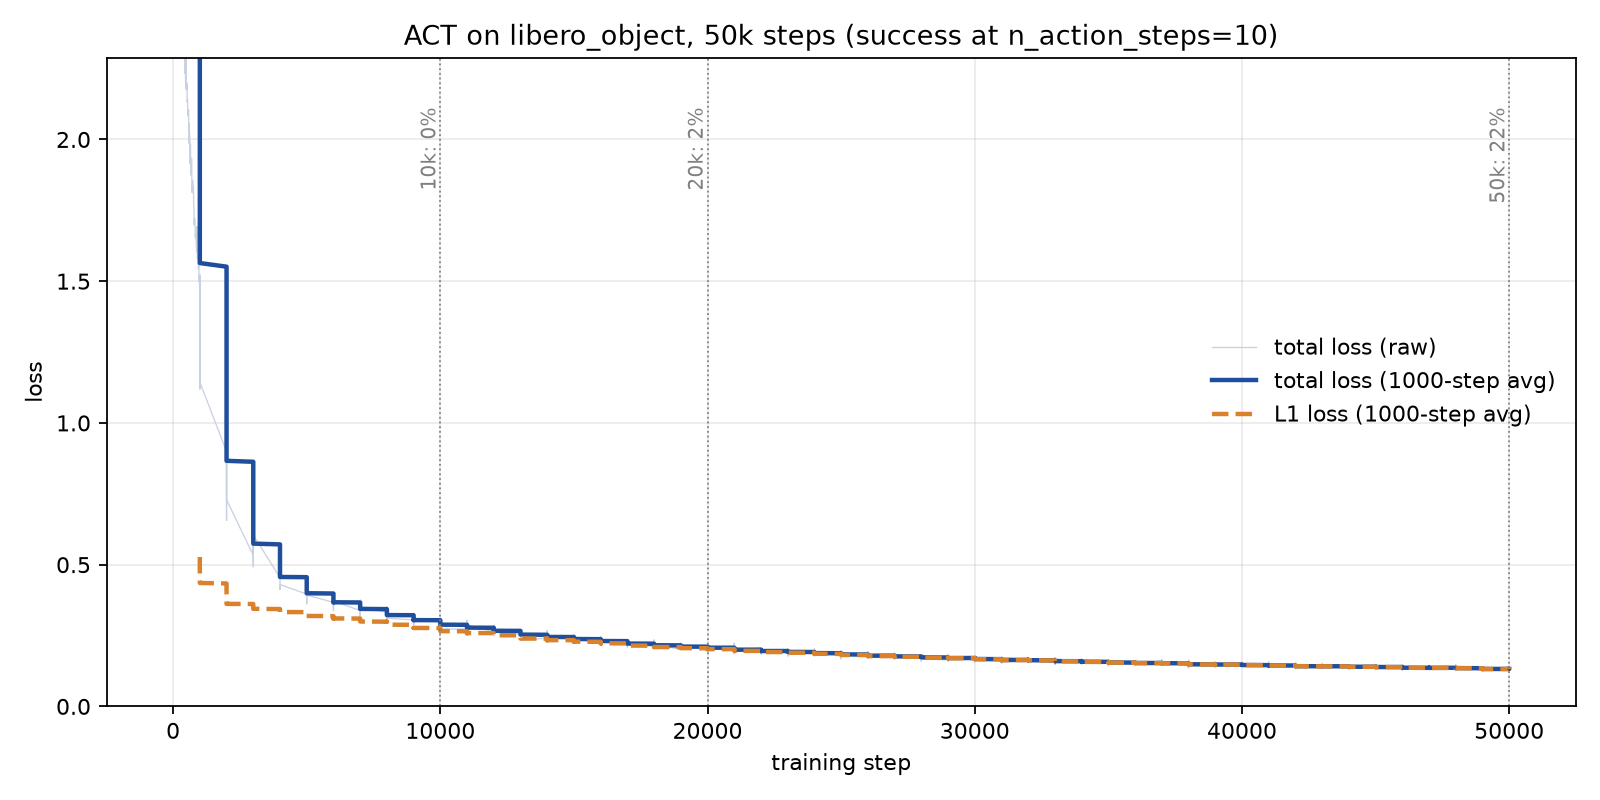
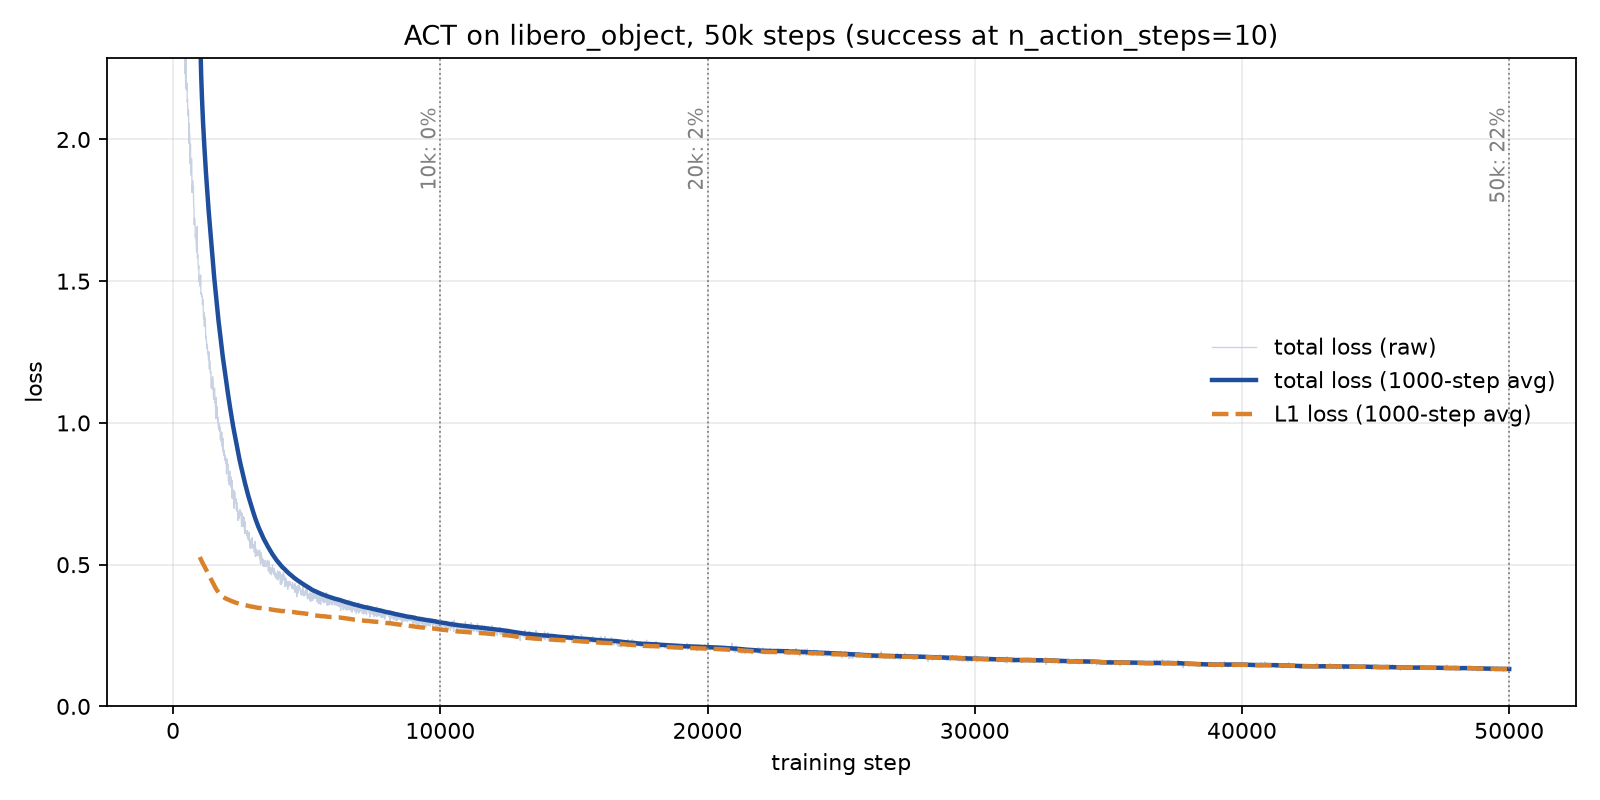
Describe figures, add eval commands for both stages, fix loss-curve x axis

diff --git a/scripts/plot_act50k.py b/scripts/plot_act50k.py
@@ -10,6 +10,8 @@ for s, loss, l1 in re.findall(r"step:(\S+)\s.*?\bloss:([\d.]+).*?\bl1_loss:([\d.
     s = float(s[:-1]) * 1000 if s.endswith("K") else float(s)
     S.append(s); L.append(float(loss)); L1.append(float(l1))
 S, L, L1 = map(np.array, (S, L, L1))
+if len(S) == 5000: S = np.arange(1, 5001) * 10.0
+else: print('WARNING: expected 5000 log points, got', len(S))
 o = np.argsort(S); S, L, L1 = S[o], L[o], L1[o]
 w = 100  # log_freq=10 -> 100 points = 1000 steps
 sm = lambda a: np.convolve(a, np.ones(w) / w, mode="valid")

diff --git a/scripts/plot_replay20.py b/scripts/plot_replay20.py
@@ -11,6 +11,8 @@ for s, l in re.findall(r"step:(\S+)\s.*?\bloss:([\d.]+)", txt):
     s = float(s[:-1]) * 1000 if s.endswith("K") else float(s)
     steps.append(s); losses.append(float(l))
 steps, losses = np.array(steps), np.array(losses)
+if len(steps) == 1000: steps = np.arange(1, 1001) * 10.0
+else: print('WARNING: expected 1000 log points, got', len(steps))
 w = 20  # log_freq=10, so 20 points = 200 steps
 smooth = np.convolve(losses, np.ones(w) / w, mode="valid")
 

diff --git a/README.md b/README.md
@@ -36,7 +36,11 @@ The model predicts 50-step action chunks; how many are executed before re-planni
 
 ## Figures
 ![Stage 1 loss and success](results/figures/stage1_loss_and_success.png)
+
+*Stage 1 (libero_object, 10,000 steps).* **Left:** training loss (flow-matching) drops quickly in the first ~1,000 steps, from about 2.1 to 0.5, then flattens near 0.3. **Right:** success on libero_object at four checkpoints, at the default `n_action_steps=50`. The label `n=10` means 10 evaluation episodes (hence the wide 95% intervals), and `n=50` marks the 50-episode evaluation of the final checkpoint (68%). Success keeps rising while the loss is nearly flat, so loss alone is a poor guide to task performance. With `n_action_steps=10` the same final checkpoint reaches 94% (see table).
 ![Stage 2 replay run: loss and success comparison](results/figures/stage2_replay20_summary.png)
+
+*Stage 2 with 20% object replay (10,000 steps, starting from the stage 1 weights).* **Left:** training loss starts near 1.1 (new data, new scenes) and settles around 0.33. **Right:** success on both suites for the three models, all at `n_action_steps=10`, 50 episodes each, with 95% Wilson intervals. Training on libero_10 alone drops libero_object from 94% to 6% (forgetting), while adding 20% object episodes keeps it at 80% and libero_10 at 60%.
 
 ## Example rollouts
 Successful episodes from the stage 2 (replay) model:
@@ -56,10 +60,16 @@ lerobot-train --policy.type=smolvla --policy.load_vlm_weights=true --policy.push
 lerobot-train --policy.path=./outputs/object10k/checkpoints/010000/pretrained_model --policy.push_to_hub=false \
   --dataset.repo_id=lerobot/libero --dataset.episodes="$(cat splits/long10_replay20.json)" \
   --dataset.video_backend=torchcodec --output_dir=./outputs/stage2_replay20 --steps=10000 --batch_size=16
-# evaluation
-lerobot-eval --policy.path=./outputs/stage2_replay20/checkpoints/010000/pretrained_model \
+# evaluation, stage 1 (libero_object)
+lerobot-eval --policy.path=./outputs/object10k/checkpoints/010000/pretrained_model \
   --policy.n_action_steps=10 --env.type=libero --env.task=libero_object \
   --eval.batch_size=1 --eval.n_episodes=5 --env.max_parallel_tasks=1
+# evaluation, stage 2 (both suites; repeat with outputs/stage2_long10 for the no-replay model)
+for suite in libero_object libero_10; do
+  lerobot-eval --policy.path=./outputs/stage2_replay20/checkpoints/010000/pretrained_model \
+    --policy.n_action_steps=10 --env.type=libero --env.task=$suite \
+    --eval.batch_size=1 --eval.n_episodes=5 --env.max_parallel_tasks=1
+done
 ```
 
 ## Layout
